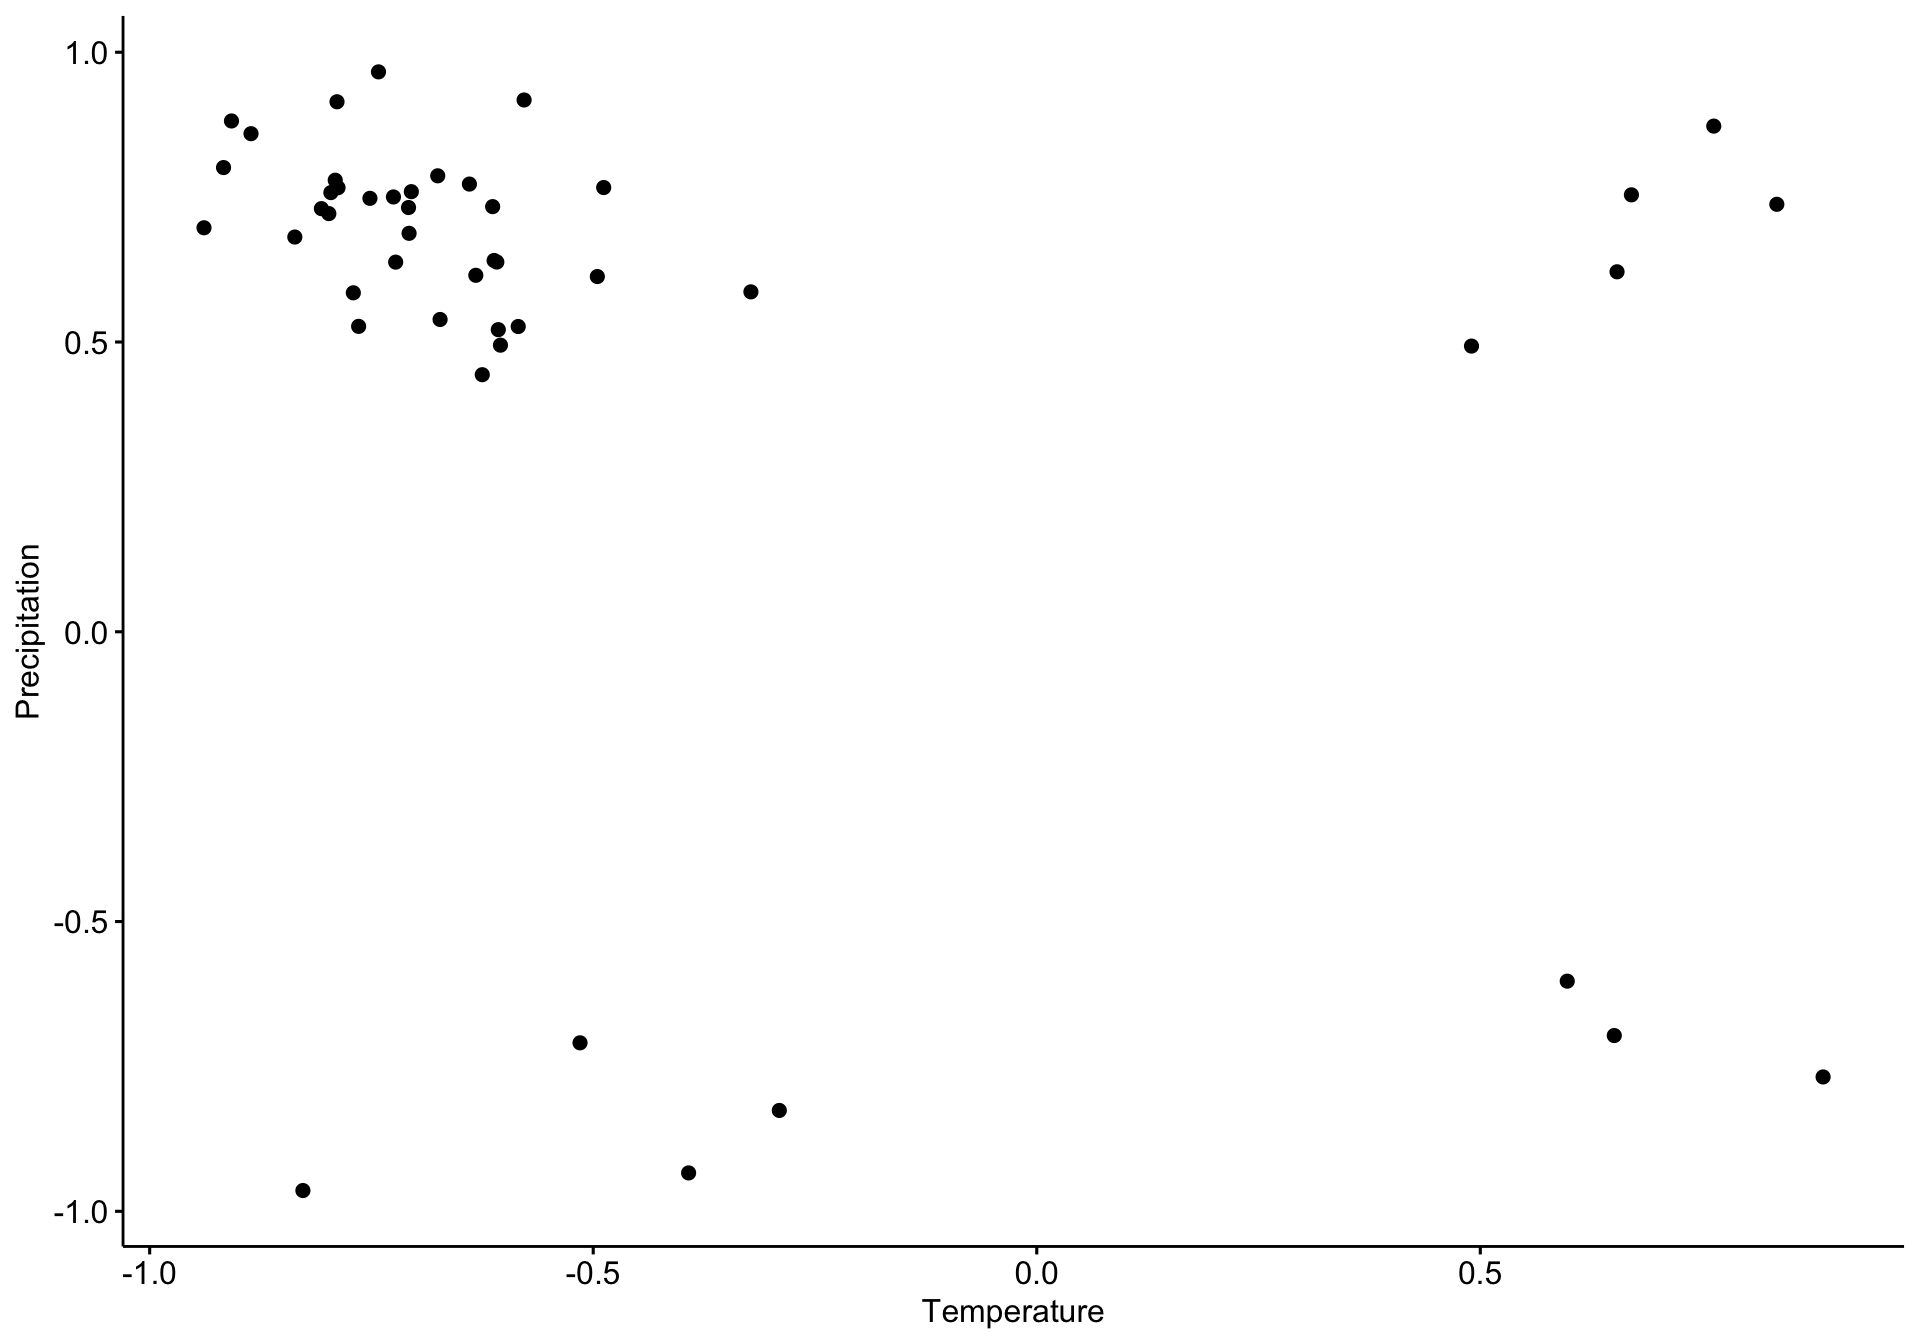
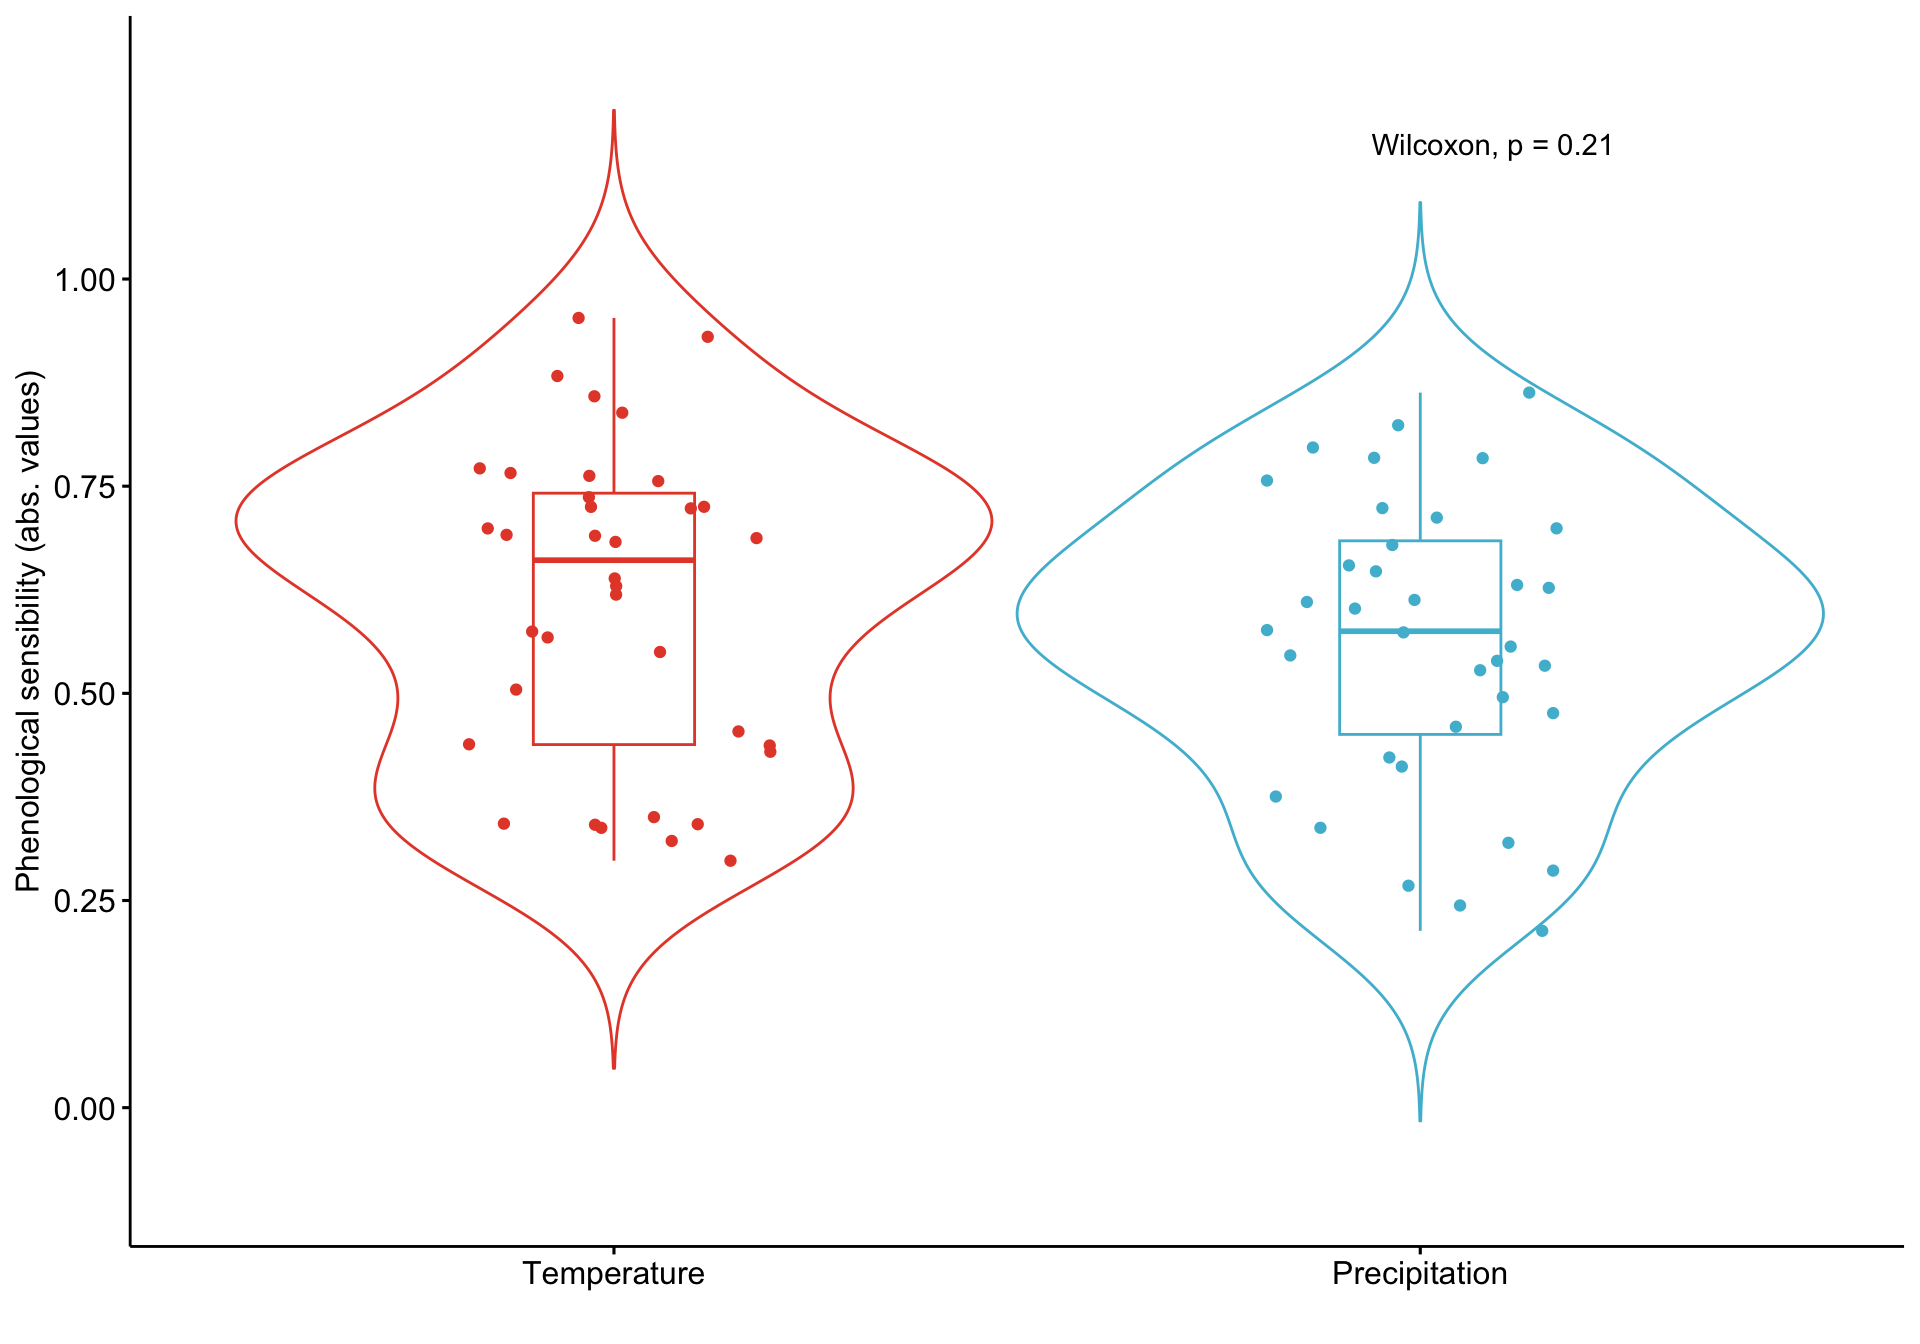
Build site.

diff --git a/docs/model_selection.html b/docs/model_selection.html
@@ -391,7 +391,7 @@ class="glyphicon glyphicon-ok text-success" aria-hidden="true"></span>
 <div class="tab-content">
 <div id="summary" class="tab-pane fade in active">
 <p>
-<strong>Last updated:</strong> 2023-08-01
+<strong>Last updated:</strong> 2023-08-21
 </p>
 <p>
 <strong>Checks:</strong> <span
@@ -522,15 +522,15 @@ project makes it easier to run your code on other machines.</p>
 <div class="panel panel-default">
 <div class="panel-heading">
 <p class="panel-title">
-<a data-toggle="collapse" data-parent="#workflowr-checks" href="#strongRepositoryversionstrongahrefhttpsgithubcomajpelumsmariposasphenotreef180ab20925197fb0c981aeced258da6e7205521targetblankf180ab2a">
+<a data-toggle="collapse" data-parent="#workflowr-checks" href="#strongRepositoryversionstrongahrefhttpsgithubcomajpelumsmariposasphenotree60881feb481bbb53d01c0c35eaac0967623f947atargetblank60881fea">
 <span class="glyphicon glyphicon-ok text-success"
 aria-hidden="true"></span> <strong>Repository version:</strong>
-<a href="https://github.com/ajpelu/ms_mariposas_pheno/tree/f180ab20925197fb0c981aeced258da6e7205521" target="_blank">f180ab2</a>
+<a href="https://github.com/ajpelu/ms_mariposas_pheno/tree/60881feb481bbb53d01c0c35eaac0967623f947a" target="_blank">60881fe</a>
 </a>
 </p>
 </div>
 <div
[2 lines of base64/hex data omitted]
 class="panel-collapse collapse">
 <div class="panel-body">
 <p>
@@ -540,7 +540,7 @@ reproducibility.
 </p>
 <p>
 The results in this page were generated with repository version
-<a href="https://github.com/ajpelu/ms_mariposas_pheno/tree/f180ab20925197fb0c981aeced258da6e7205521" target="_blank">f180ab2</a>.
+<a href="https://github.com/ajpelu/ms_mariposas_pheno/tree/60881feb481bbb53d01c0c35eaac0967623f947a" target="_blank">60881fe</a>.
 See the <em>Past versions</em> tab to see a history of the changes made
 to the R Markdown and HTML files.
 </p>
@@ -557,14 +557,12 @@ were generated:
 Ignored files:
     Ignored:    .Rhistory
     Ignored:    .Rproj.user/
+    Ignored:    data/.DS_Store
     Ignored:    data/raw_data/.DS_Store
 
 Untracked files:
-    Untracked:  data/models_prec_selected.xlsx
-    Untracked:  data/models_tmed_selected.xlsx
-
-Unstaged changes:
-    Modified:   analysis/index.Rmd
+    Untracked:  data/models_prec_selected_new.xlsx
+    Untracked:  data/models_tmed_selected_new.xlsx
 
 </code></pre>
 <p>
@@ -615,6 +613,57 @@ Message
 Rmd
 </td>
 <td>
+<a href="https://github.com/ajpelu/ms_mariposas_pheno/blob/60881feb481bbb53d01c0c35eaac0967623f947a/analysis/model_selection.Rmd" target="_blank">60881fe</a>
+</td>
+<td>
+ajpelu
+</td>
+<td>
+2023-08-21
+</td>
+<td>
+add new selection of models
+</td>
+</tr>
+<tr>
+<td>
+Rmd
+</td>
+<td>
+<a href="https://github.com/ajpelu/ms_mariposas_pheno/blob/2dd624a785933f7abfd0b4a18d611eb87068c8ea/analysis/model_selection.Rmd" target="_blank">2dd624a</a>
+</td>
+<td>
+ajpelu
+</td>
+<td>
+2023-08-21
+</td>
+<td>
+update repo
+</td>
+</tr>
+<tr>
+<td>
+html
+</td>
+<td>
+<a href="https://rawcdn.githack.com/ajpelu/ms_mariposas_pheno/bd4c9db2f6b281bd7307d9c80b23fec537317e88/docs/model_selection.html" target="_blank">bd4c9db</a>
+</td>
+<td>
+ajpelu
+</td>
+<td>
+2023-08-01
+</td>
+<td>
+Build site.
+</td>
+</tr>
+<tr>
+<td>
+Rmd
+</td>
+<td>
 <a href="https://github.com/ajpelu/ms_mariposas_pheno/blob/f180ab20925197fb0c981aeced258da6e7205521/analysis/model_selection.Rmd" target="_blank">f180ab2</a>
 </td>
 <td>
@@ -652,15 +701,15 @@ library(glue)
 library(kableExtra)
 library(DT)
 library(ggpubr)</code></pre>
-<pre class="r"><code>df_doy &lt;- vroom::vroom(here::here(&quot;data/doy_peak_sps.csv&quot;))
+<pre class="r"><code>df_doy_wmd &lt;- vroom::vroom(here::here(&quot;data/doy_peak_sps_WMD.csv&quot;))
 
-doy_mean &lt;- df_doy |&gt; 
+doy_mean &lt;- df_doy_wmd |&gt; 
   group_by(species) |&gt; 
-  summarise(doy_mean = mean(doy, na.rm = TRUE),
-            doy_sd = sd(doy, na.rm = TRUE)) </code></pre>
-<pre class="r"><code>models_temp &lt;- readxl::read_excel(&quot;data/models_tmed_selected.xlsx&quot;) |&gt; 
+    summarise(doy_mean = mean(weigth_mean_date, na.rm = TRUE),
+            doy_sd = sd(weigth_mean_date, na.rm = TRUE)) </code></pre>
+<pre class="r"><code>models_temp &lt;- readxl::read_excel(&quot;data/models_tmed_selected_new.xlsx&quot;) |&gt; 
   filter(term == &quot;x&quot;) 
-models_prec &lt;- readxl::read_excel(&quot;data/models_prec_selected.xlsx&quot;) |&gt; 
+models_prec &lt;- readxl::read_excel(&quot;data/models_prec_selected_new.xlsx&quot;) |&gt; 
   filter(term == &quot;x&quot;) 
 
 mt &lt;- models_temp |&gt; dplyr::select(species, Model)
@@ -708,7 +757,44 @@ scaled_models &lt;- bind_rows(
     strip.background = element_rect(fill = &quot;transparent&quot;), 
     strip.text = element_text(face = &quot;bold&quot;)
   )</code></pre>
-<p><img src="figure/model_selection.Rmd/unnamed-chunk-5-1.png" width="960" style="display: block; margin: auto;" /></p>
+<p><img src="figure/model_selection.Rmd/unnamed-chunk-6-1.png" width="960" style="display: block; margin: auto;" /></p>
+<p>
+<button type="button" class="btn btn-default btn-xs btn-workflowr btn-workflowr-fig" data-toggle="collapse" data-target="#fig-unnamed-chunk-6-1">
+Past versions of unnamed-chunk-6-1.png
+</button>
+</p>
+<div id="fig-unnamed-chunk-6-1" class="collapse">
+<div class="table-responsive">
+<table class="table table-condensed table-hover">
+<thead>
+<tr>
+<th>
+Version
+</th>
+<th>
+Author
+</th>
+<th>
+Date
+</th>
+</tr>
+</thead>
+<tbody>
+<tr>
+<td>
+<a href="https://github.com/ajpelu/ms_mariposas_pheno/blob/bd4c9db2f6b281bd7307d9c80b23fec537317e88/docs/figure/model_selection.Rmd/unnamed-chunk-6-1.png" target="_blank">bd4c9db</a>
+</td>
+<td>
+ajpelu
+</td>
+<td>
+2023-08-01
+</td>
+</tr>
+</tbody>
+</table>
+</div>
+</div>
 <ul>
 <li>Compare absolute values</li>
 </ul>
@@ -720,16 +806,53 @@ scaled_models &lt;- bind_rows(
          ylab = &quot;Phenological sensibility (abs. values)&quot;, 
          xlab = &quot;&quot;) +
   theme(legend.position = &quot;none&quot;) + 
-  stat_compare_means(label.y = 0.2, label.x = 2) +
-  scale_y_continuous(limits = c(0,1.2), breaks = seq(0,1, by =0.25)) </code></pre>
-<p><img src="figure/model_selection.Rmd/unnamed-chunk-6-1.png" width="960" style="display: block; margin: auto;" /></p>
+  stat_compare_means(label.y = 1.15, label.x = 2) +
+  scale_y_continuous(limits = c(-0.1,1.25), breaks = seq(0,1, by =0.25)) </code></pre>
+<p><img src="figure/model_selection.Rmd/unnamed-chunk-7-1.png" width="960" style="display: block; margin: auto;" /></p>
+<p>
+<button type="button" class="btn btn-default btn-xs btn-workflowr btn-workflowr-fig" data-toggle="collapse" data-target="#fig-unnamed-chunk-7-1">
+Past versions of unnamed-chunk-7-1.png
+</button>
+</p>
+<div id="fig-unnamed-chunk-7-1" class="collapse">
+<div class="table-responsive">
+<table class="table table-condensed table-hover">
+<thead>
+<tr>
+<th>
+Version
+</th>
+<th>
+Author
+</th>
+<th>
+Date
+</th>
+</tr>
+</thead>
+<tbody>
+<tr>
+<td>
+<a href="https://github.com/ajpelu/ms_mariposas_pheno/blob/bd4c9db2f6b281bd7307d9c80b23fec537317e88/docs/figure/model_selection.Rmd/unnamed-chunk-7-1.png" target="_blank">bd4c9db</a>
+</td>
+<td>
+ajpelu
+</td>
+<td>
+2023-08-01
+</td>
+</tr>
+</tbody>
+</table>
+</div>
+</div>
 <pre class="r"><code>qq &lt;- scaled_models |&gt; 
   dplyr::select(species, estimate, var) |&gt; 
   pivot_wider(values_from = estimate, 
               names_from = var)
 
 ggscatter(qq, x=&quot;Temperature&quot;, y = &quot;Precipitation&quot;)</code></pre>
-<p><img src="figure/model_selection.Rmd/unnamed-chunk-7-1.png" width="960" style="display: block; margin: auto;" /></p>
+<p><img src="figure/model_selection.Rmd/unnamed-chunk-8-1.png" width="960" style="display: block; margin: auto;" /></p>
 <pre class="r"><code>h &lt;- scaled_models |&gt; 
   separate(Model, into=c(&quot;m1&quot;, &quot;m2&quot;, &quot;m3&quot;), 
            sep =&quot;(?&lt;=[a-z])(?=[A-Z])&quot;, 
@@ -777,7 +900,8 @@ hh &lt;- hlong |&gt;
   geom_segment(aes(x = min_month, xend = max_month, yend = species), 
                colour = &quot;grey80&quot;, size = 4, lineend = &quot;butt&quot;) +
   theme_bw() +
-  theme(panel.grid.minor = element_blank()) + 
+  theme(panel.grid.minor = element_blank(), 
+        axis.text.y = element_text(face = &quot;italic&quot;)) + 
   scale_x_continuous(breaks = seq(1,12,by=1), limits = c(1,12.5), 
                      labels = c(expression(&quot;Oct&quot;[-1]), 
                                 expression(&quot;Nov&quot;[-1]),
@@ -787,7 +911,44 @@ hh &lt;- hlong |&gt;
                                 &quot;Jul&quot;, &quot;Aug&quot;, &quot;Sep&quot;)) +
   geom_linerange(aes(xmin = d - sd_d, xmax = d + sd_d), colour=&quot;red&quot;) +
   geom_point(aes(x=d), colour=&quot;red&quot;, size = 2)</code></pre>
-<p><img src="figure/model_selection.Rmd/unnamed-chunk-10-1.png" width="960" style="display: block; margin: auto;" /></p>
+<p><img src="figure/model_selection.Rmd/unnamed-chunk-11-1.png" width="960" style="display: block; margin: auto;" /></p>
+<p>
+<button type="button" class="btn btn-default btn-xs btn-workflowr btn-workflowr-fig" data-toggle="collapse" data-target="#fig-unnamed-chunk-11-1">
+Past versions of unnamed-chunk-11-1.png
+</button>
+</p>
+<div id="fig-unnamed-chunk-11-1" class="collapse">
+<div class="table-responsive">
+<table class="table table-condensed table-hover">
+<thead>
+<tr>
+<th>
+Version
+</th>
+<th>
+Author
+</th>
+<th>
+Date
+</th>
+</tr>
+</thead>
+<tbody>
+<tr>
+<td>
+<a href="https://github.com/ajpelu/ms_mariposas_pheno/blob/bd4c9db2f6b281bd7307d9c80b23fec537317e88/docs/figure/model_selection.Rmd/unnamed-chunk-11-1.png" target="_blank">bd4c9db</a>
+</td>
+<td>
+ajpelu
+</td>
+<td>
+2023-08-01
+</td>
+</tr>
+</tbody>
+</table>
+</div>
+</div>
 </div>
 <div id="precipitation" class="section level2">
 <h2>Precipitation</h2>
@@ -799,7 +960,8 @@ hh &lt;- hlong |&gt;
   geom_segment(aes(x = min_month, xend = max_month, yend = species), 
                colour = &quot;grey80&quot;, size = 4, lineend = &quot;butt&quot;) +
   theme_bw() +
-  theme(panel.grid.minor = element_blank()) + 
+  theme(panel.grid.minor = element_blank(),
+        axis.text.y = element_text(face = &quot;italic&quot;)) + 
   scale_x_continuous(breaks = seq(1,12,by=1), limits = c(1,12.5), 
                      labels = c(expression(&quot;Oct&quot;[-1]), 
                                 expression(&quot;Nov&quot;[-1]),
@@ -809,7 +971,7 @@ hh &lt;- hlong |&gt;
                                 &quot;Jul&quot;, &quot;Aug&quot;, &quot;Sep&quot;)) +
   geom_linerange(aes(xmin = d - sd_d, xmax = d + sd_d), colour=&quot;blue&quot;) +
   geom_point(aes(x=d), colour=&quot;blue&quot;, size = 2)</code></pre>
-<p><img src="figure/model_selection.Rmd/unnamed-chunk-11-1.png" width="960" style="display: block; margin: auto;" /></p>
+<p><img src="figure/model_selection.Rmd/unnamed-chunk-12-1.png" width="960" style="display: block; margin: auto;" /></p>
 <br>
 <p>
 <button type="button" class="btn btn-default btn-workflowr btn-workflowr-sessioninfo" data-toggle="collapse" data-target="#workflowr-sessioninfo" style="display: block;">
